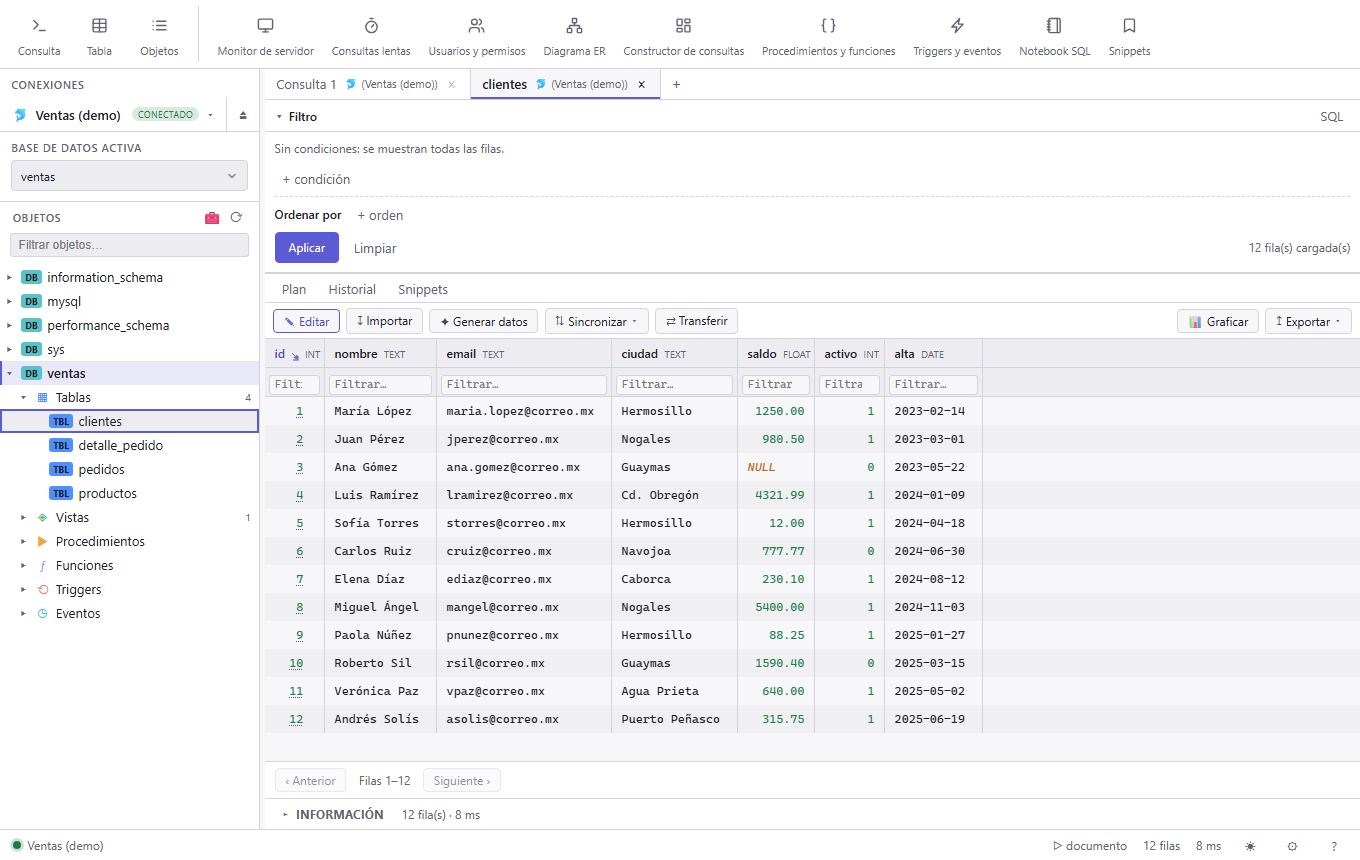
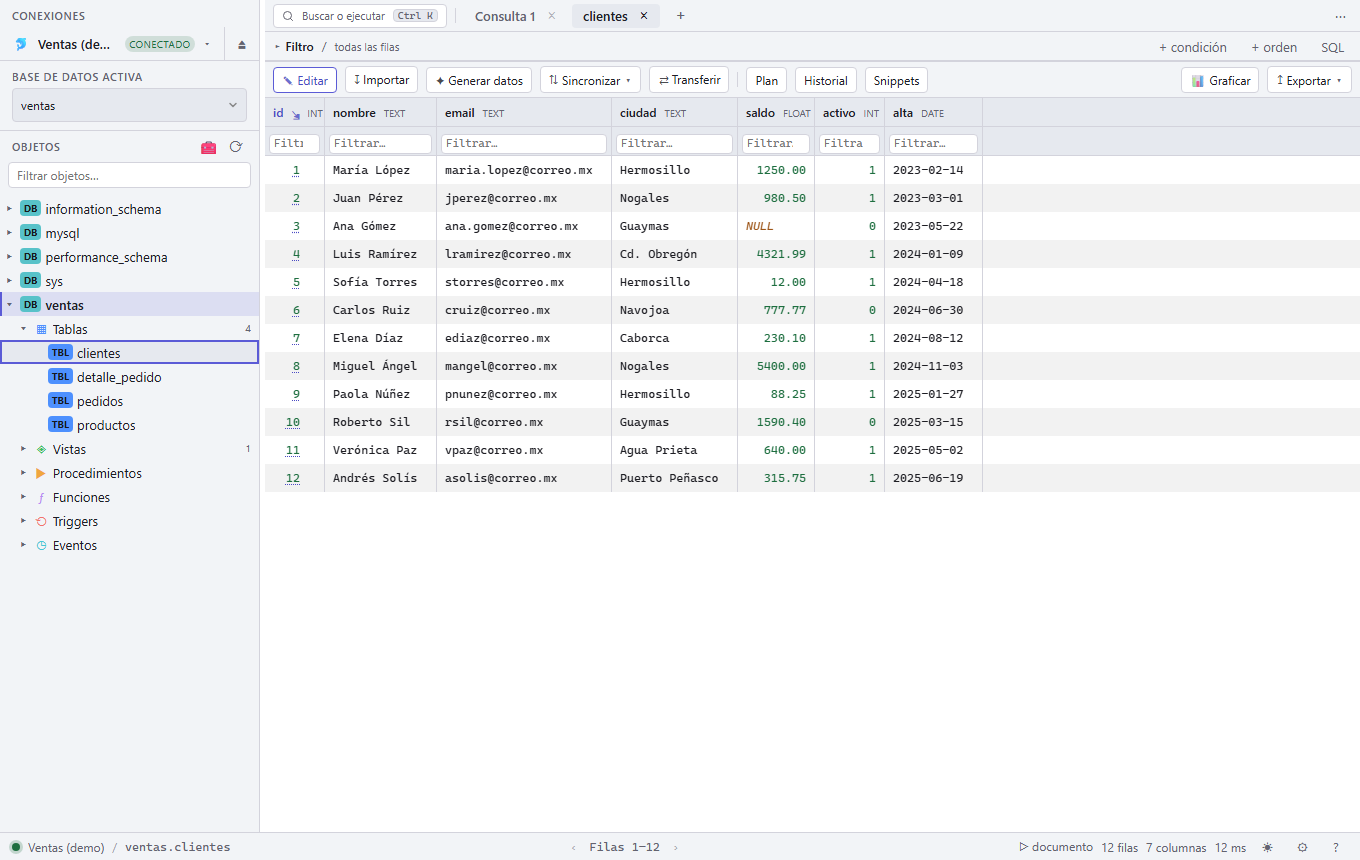
chore(media): reshoot the screenshots on the new chrome (refs #386)
Measured on the new dark shot, same 1360x860 as the audit: 156 px stacked above
the first row where there were 397, and 28 below where there were 98. The data
is 79 % of the window, up from 42 %.

The capture specs drove the ribbon, which is gone: the tools come from the ⋯
strip now (unfolded to click, folded again before the shot, so every image keeps
the baseline chrome the app opens with) and a new query from the tab bar's +.

The strip's toggle is "Barra de herramientas", not "Herramientas" — the object
tree's 🧰 button already answers to that name, and two buttons with one
accessible name is ambiguous for a screen reader before it is ambiguous for a
test locator.

diff --git a/frontend/e2e/media/screenshots.spec.ts b/frontend/e2e/media/screenshots.spec.ts
@@ -131,11 +131,17 @@ test("capture the published screenshots", async ({ page }) => {
       ["Monitor de servidor", "screenshot-monitor.png", /sesi[óo]n\(es\)/i],
       ["Usuarios y permisos", "screenshot-users.png", /usuario\(s\)/i],
     ];
+    // The tools live behind the ⋯ strip now (#386), which is folded at rest —
+    // and folded again before each shot, so the images keep the same baseline
+    // chrome the app opens with.
+    const toolStrip = page.getByRole("button", { name: "Barra de herramientas", exact: true });
     for (const [button, file, ready] of tools) {
+      await toolStrip.click();
       await page
         .getByRole("toolbar", { name: "Acciones" })
         .getByRole("button", { name: button, exact: true })
         .click();
+      await toolStrip.click();
       await expect(page.getByText(ready).first()).toBeVisible({ timeout: 30_000 });
       await shot(file);
       // Escape, not a "Cerrar" button: the panels stopped printing one when the
@@ -144,7 +150,7 @@ test("capture the published screenshots", async ({ page }) => {
     }
 
     // 8. The chart view, which needs a result to chart: run a query, then chart it.
-    await page.getByRole("toolbar", { name: "Acciones" }).getByRole("button", { name: "Consulta", exact: true }).click();
+    await page.getByRole("button", { name: "Nueva consulta", exact: true }).click();
     const editor = page.getByRole("textbox", { name: "Editor SQL", exact: true });
     await editor.click();
     await page.keyboard.press("ControlOrMeta+a");

diff --git a/frontend/e2e/media/video.spec.ts b/frontend/e2e/media/video.spec.ts
@@ -141,8 +141,7 @@ test("record the demo video", async ({ page }) => {
 
     // --- 3. Query ----------------------------------------------------------
     await caption("Escribe SQL con autocompletado por esquema");
-    const ribbon = page.getByRole("toolbar", { name: "Acciones" });
-    await ribbon.getByRole("button", { name: "Consulta", exact: true }).click();
+    await page.getByRole("button", { name: "Nueva consulta", exact: true }).click();
     const editor = page.getByRole("textbox", { name: "Editor SQL", exact: true });
     await editor.click();
     await page.keyboard.press("ControlOrMeta+a");
@@ -168,6 +167,12 @@ test("record the demo video", async ({ page }) => {
     await beat(700);
 
     // --- 4. Tools ----------------------------------------------------------
+    // Unfolded once here and left open for both tools: the ⋯ strip replaced the
+    // ribbon in #386, and folding it between beats would only add a flicker.
+    const toolStrip = page.getByRole("button", { name: "Barra de herramientas", exact: true });
+    const ribbon = page.getByRole("toolbar", { name: "Acciones" });
+    await toolStrip.click();
+
     await caption("Diagrama ER con las llaves foráneas reales");
     await ribbon.getByRole("button", { name: "Diagrama ER", exact: true }).click();
     await expect(page.getByText(/relaci[óo]n\(es\)/i).first()).toBeVisible({

diff --git a/frontend/src/utils/messages/es.ts b/frontend/src/utils/messages/es.ts
@@ -57,7 +57,7 @@ export const es: Record<string, string> = {
   "toolbar.actions": "Acciones",
   "toolbar.launch": "Buscar o ejecutar",
   "toolbar.launchTitle": "Buscar objetos, herramientas y acciones",
-  "toolbar.tools": "Herramientas",
+  "toolbar.tools": "Barra de herramientas",
   "toolbar.newQuery.label": "Consulta",
   "toolbar.newQuery.title": "Nueva consulta",
   "toolbar.newTable.label": "Tabla",

diff --git a/frontend/src/utils/messages/en.ts b/frontend/src/utils/messages/en.ts
@@ -54,7 +54,7 @@ export const en: Record<string, string> = {
   "toolbar.actions": "Actions",
   "toolbar.launch": "Search or run",
   "toolbar.launchTitle": "Search objects, tools and actions",
-  "toolbar.tools": "Tools",
+  "toolbar.tools": "Tool bar",
   "toolbar.newQuery.label": "Query",
   "toolbar.newQuery.title": "New query",
   "toolbar.newTable.label": "Table",
